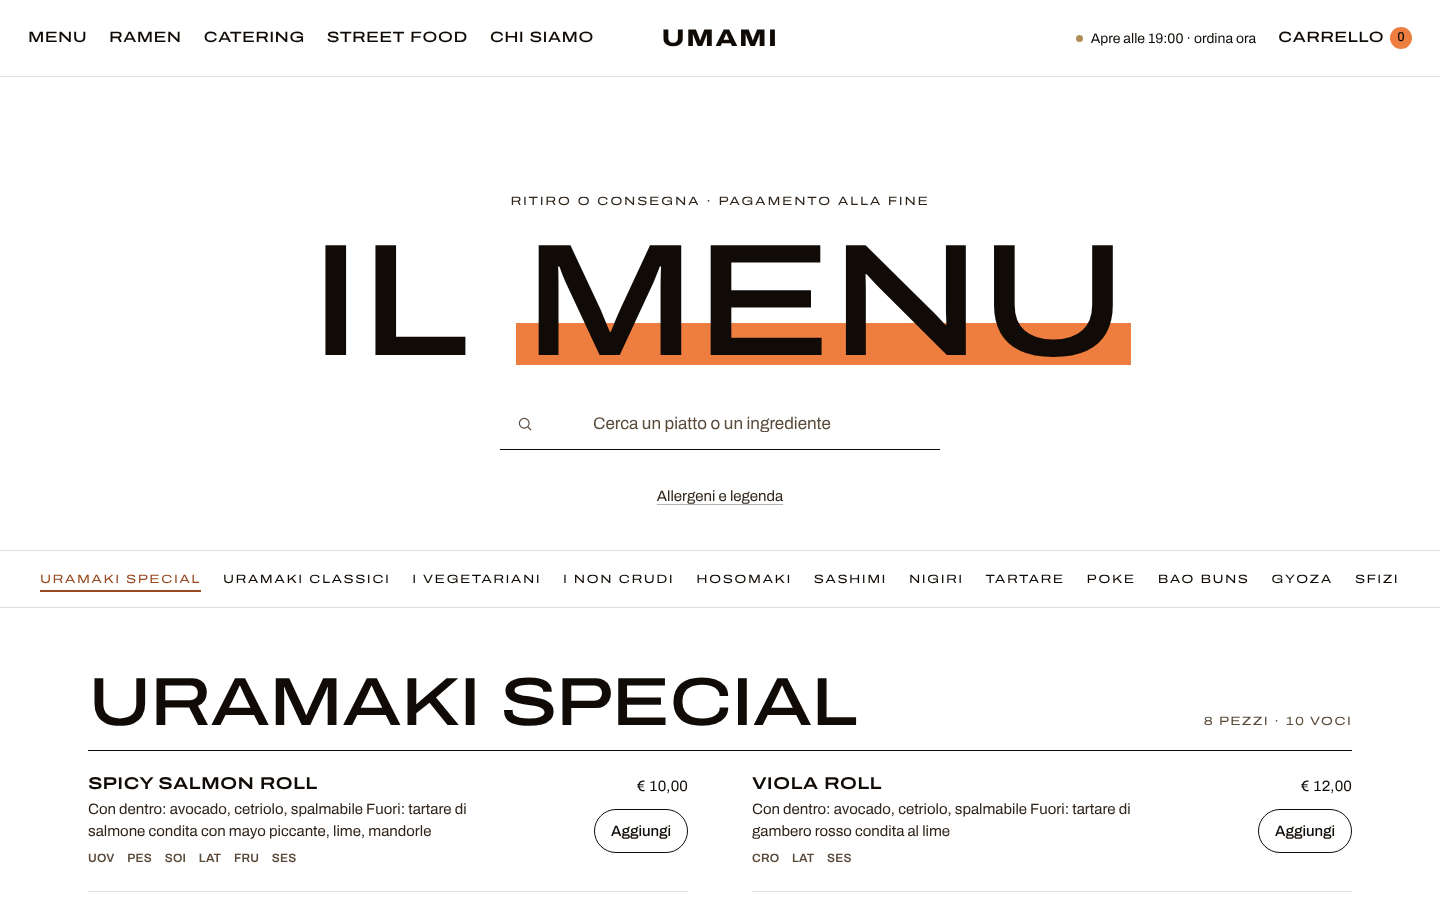
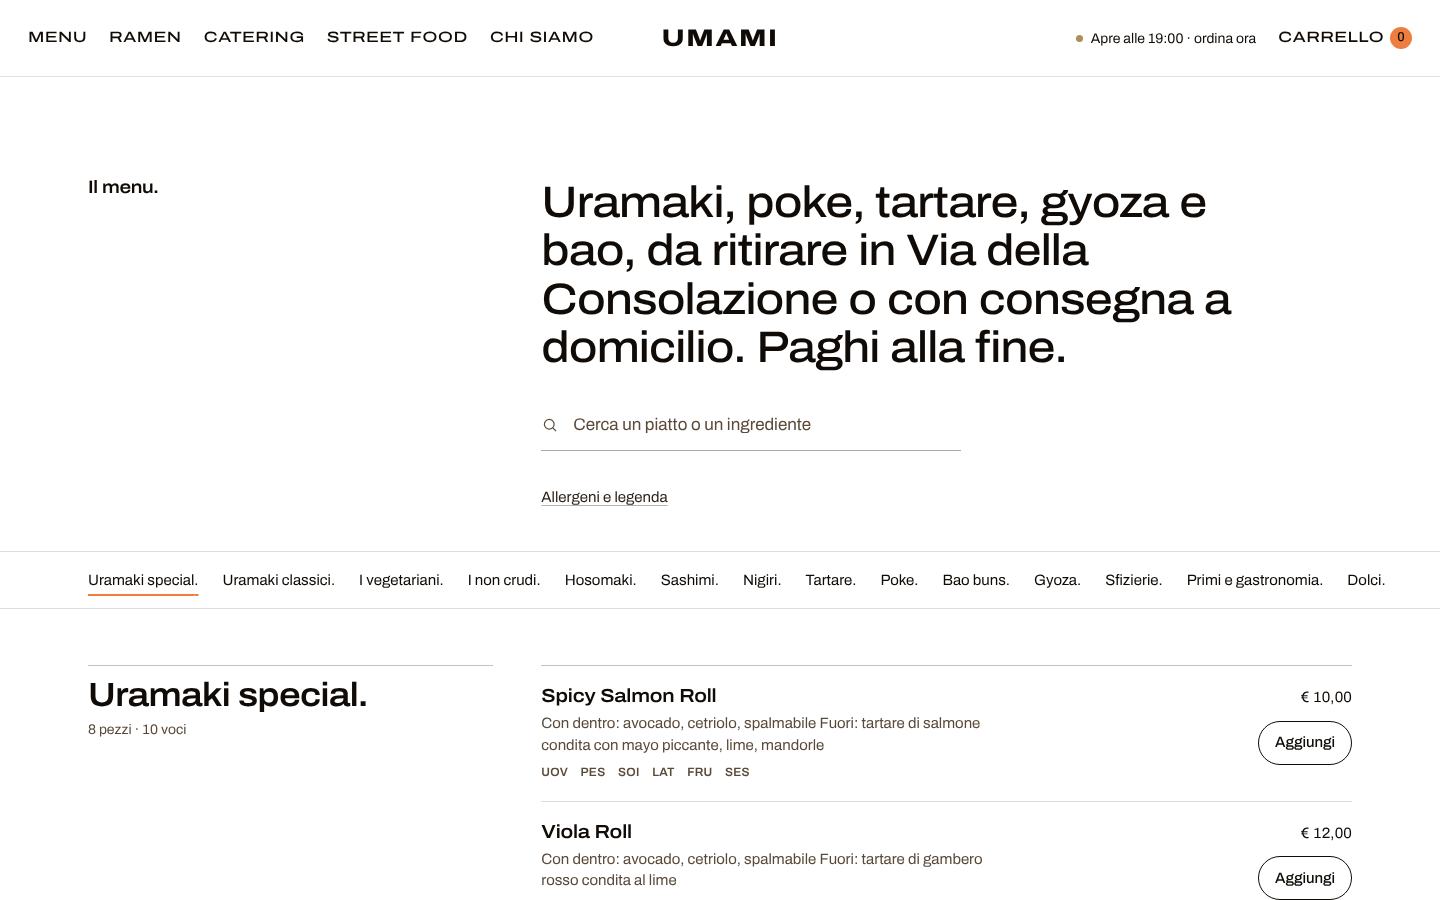
Menu e Cassa nello stile della Home v2 (Watchhouse)
Titoli col punto in minuscolo normale, etichetta a sinistra e contenuto a
destra, categorie col nome fisso mentre i piatti scorrono, righe sottili,
arancione solo per azioni e stati. Corretto lo scorrimento della barra
categorie su mobile (scroll-padding).

Claude-Session: https://claude.ai/code/session_01LSCnPxq5ZLnrvnRqcxrqF5

diff --git a/assets/css/interne.css b/assets/css/interne.css
@@ -1,0 +1,62 @@
+/* =========================================================================
+   UMAMI — Pagine interne v2 (Menu, Cassa) · stessa logica della Home v2
+   Watchhouse: titoli in minuscolo normale col punto, peso 600, niente maiuscoli
+   giganti; etichetta a sinistra e contenuto a destra; righe sottili;
+   l'arancione solo per azioni e stati (carrello, attivo, scelta).
+   ========================================================================= */
+h1, h2 { text-transform: none; }
+.m-testa h1, .c-testa h1, .m-sezione__testa h2, .c-blocco__testa h2, .u-riepilogo h2, .u-cassetto__testa h2 {
+  font-family: var(--font-display); font-stretch: 112%; font-weight: 600; letter-spacing: -0.02em; line-height: 1.05; text-transform: none; }
+
+/* ---------- MENU: testa a due colonne (etichetta / frase + ricerca) ---------- */
+.m-testa { display: grid; grid-template-columns: minmax(0, 1fr) minmax(0, 2fr); gap: 24px 48px; justify-items: stretch; text-align: left; padding-block: clamp(48px, 7vw, 104px) 32px; }
+@media (max-width: 760px) { .m-testa { grid-template-columns: 1fr; } }
+.m-testa h1.m-testa__etichetta { font-size: 1.125rem; }
+.m-testa__riga { display: grid; gap: 28px; align-items: start; justify-items: start; }
+.m-testa__frase { font-family: var(--font-display); font-stretch: 112%; font-weight: 500; font-size: clamp(1.6rem, 1rem + 2vw, 2.75rem); line-height: 1.1; letter-spacing: -0.02em; max-width: 26ch; }
+.m-cerca { width: min(100%, 420px); }
+.m-cerca .u-input { text-align: left; padding-left: 32px; border-bottom: 1px solid rgba(16,11,6,.35); }
+.m-cerca svg { left: 0; }
+.m-legenda { grid-column: 2; text-align: left; }
+@media (max-width: 760px) { .m-legenda { grid-column: 1; } }
+.m-legenda ul { margin-inline: 0; }
+
+/* Categorie: testo normale col punto, attiva sottolineata in arancione */
+.m-categorie .u-categorie__lista { justify-content: flex-start; gap: 4px 24px; }
+.m-categorie a.u-tag { font-family: var(--font-sans); font-stretch: 100%; text-transform: none; letter-spacing: 0; font-size: .9375rem; }
+.m-categorie a.u-tag::after { content: "."; }
+.m-categorie a.u-tag[aria-current="true"] { color: var(--c-inchiostro); text-decoration-color: var(--c-corallo); text-decoration-thickness: 2px; }
+
+/* Sezioni: etichetta fissa a sinistra, piatti a destra */
+.m-sezione { display: grid; grid-template-columns: minmax(0, 1fr) minmax(0, 2fr); gap: 0 48px; padding-block: 56px 8px; }
+@media (max-width: 760px) { .m-sezione { grid-template-columns: 1fr; padding-top: 40px; } }
+.m-sezione__testa { position: sticky; top: 140px; align-self: start; display: grid; gap: 6px; padding-top: 12px; border-bottom: 0; border-top: 1px solid rgba(16,11,6,.25); }
+@media (max-width: 760px) { .m-sezione__testa { position: static; } }
+.m-sezione__testa h2 { font-size: clamp(1.5rem, 1.2rem + 1vw, 2.25rem); }
+.m-sezione__testa .t-mono { margin-left: 0; font-family: var(--font-sans); font-stretch: 100%; text-transform: none; letter-spacing: 0; font-size: .875rem; color: var(--text-3); }
+.m-lista { grid-template-columns: 1fr !important; border-top: 1px solid rgba(16,11,6,.25); }
+@media (max-width: 760px) { .m-lista { border-top: 0; } }
+.m-voce { padding-block: 20px; }
+.m-voce__nome { font-family: var(--font-display); font-stretch: 112%; font-weight: 600; text-transform: none; font-size: 1.1875rem; letter-spacing: -0.01em; }
+.m-voce__desc { color: var(--text-3); max-width: 52ch; }
+.m-voce__foto { width: 104px; }
+.m-voce--foto { grid-template-columns: 104px 1fr auto; }
+
+/* ---------- CASSA ---------- */
+.c-testa { padding-block: clamp(40px, 6vw, 88px) 24px; }
+.c-testa h1 { font-size: clamp(2.25rem, 1.4rem + 3vw, 4rem); }
+.u-passi li { font-size: .875rem; }
+.u-passi li[aria-current="step"]::before { background: var(--c-corallo); border-color: var(--c-corallo); color: var(--c-inchiostro); }
+.c-blocco__testa { border-bottom: 0; border-top: 1px solid rgba(16,11,6,.25); padding: 12px 0 0; }
+.c-blocco__testa .t-mono { font-family: var(--font-sans); font-stretch: 100%; color: var(--text-3); font-size: .875rem; }
+.c-blocco__testa h2 { font-size: 1.5rem; }
+.u-riepilogo { border: 0; border-top: 1px solid rgba(16,11,6,.25); padding: 12px 0 0; }
+.u-riepilogo h2 { font-size: 1.5rem; }
+.u-riepilogo .u-totale { font-family: var(--font-display); font-stretch: 112%; font-weight: 600; }
+.u-scelta label { border-color: rgba(16,11,6,.25); }
+.u-scelta input:checked + label { border-color: var(--c-inchiostro); box-shadow: inset 0 0 0 1px var(--c-inchiostro); }
+.c-fascia input:checked + label { background: var(--c-corallo); border-color: var(--c-corallo); color: var(--c-inchiostro); }
+.c-fascia label { font-family: var(--font-sans); font-stretch: 100%; }
+.c-pagamento { box-shadow: none; border: 1px solid var(--c-inchiostro); background: transparent; }
+#invia { --btn-bg: var(--c-corallo); --btn-bd: var(--c-corallo); --btn-fg: var(--c-inchiostro); }
+.m-categorie .u-categorie__lista { scroll-padding-inline: var(--gutter); }

diff --git a/prototipo/checkout/index.html b/prototipo/checkout/index.html
@@ -14,6 +14,7 @@
 <link rel="stylesheet" href="../../assets/css/components.css">
 <link rel="stylesheet" href="../../assets/css/pagine.css">
 <link rel="stylesheet" href="../../assets/css/v7.css">
+<link rel="stylesheet" href="../../assets/css/interne.css">
 <style>img.manca { display: none; } .u-barra { display: none; } .u-footer { padding-bottom: var(--s-6); }</style>
 </head>
 <body>
@@ -33,7 +34,7 @@
     <ol class="u-passi" aria-label="Passaggi dell'ordine">
       <li class="is-fatto">Menu</li><li aria-current="step">Ritiro o consegna</li><li>Conferma</li>
     </ol>
-    <h1>Quasi <em>pronto</em></h1>
+    <h1>Quasi pronto.</h1>
   </div>
 
   <div id="vista-vuota" hidden>
@@ -51,7 +52,7 @@
 
       <fieldset class="c-blocco">
         <legend class="sr-only">Come vuoi ricevere l'ordine</legend>
-        <div class="c-blocco__testa" aria-hidden="true"><span class="t-mono">01</span><h2>Come lo ricevi</h2></div>
+        <div class="c-blocco__testa" aria-hidden="true"><span class="t-mono">01</span><h2>Come lo ricevi.</h2></div>
         <div class="u-scelte">
           <div class="u-scelta"><input type="radio" name="servizio" id="s-ritiro" value="ritiro" checked><label for="s-ritiro"><strong>Ritiro</strong><span>Via della Consolazione 55, Leverano</span></label></div>
           <div class="u-scelta"><input type="radio" name="servizio" id="s-consegna" value="consegna"><label for="s-consegna"><strong>Consegna</strong><span>A domicilio · costo in base alla zona</span></label></div>
@@ -67,7 +68,7 @@
 
       <fieldset class="c-blocco">
         <legend class="sr-only">Orario</legend>
-        <div class="c-blocco__testa" aria-hidden="true"><span class="t-mono">02</span><h2>Per che ora</h2></div>
+        <div class="c-blocco__testa" aria-hidden="true"><span class="t-mono">02</span><h2>Per che ora.</h2></div>
         <p class="c-fasce-giorno" id="fasce-giorno"></p>
         <div class="c-fasce" id="fasce" role="radiogroup" aria-labelledby="fasce-giorno"></div>
         <p class="u-campo__aiuto">Fasce di 15 minuti negli orari di apertura, con 30 minuti di preparazione: valori di esempio, quelli veri vengono dalla configurazione di Food Store.</p>
@@ -75,7 +76,7 @@
 
       <fieldset class="c-blocco">
         <legend class="sr-only">I tuoi dati</legend>
-        <div class="c-blocco__testa" aria-hidden="true"><span class="t-mono">03</span><h2>I tuoi dati</h2></div>
+        <div class="c-blocco__testa" aria-hidden="true"><span class="t-mono">03</span><h2>I tuoi dati.</h2></div>
         <div class="c-due">
           <div class="u-campo" data-campo="nome"><label for="f-nome">Nome</label><input class="u-input" id="f-nome" name="billing_first_name" autocomplete="given-name" aria-describedby="e-nome"><span class="u-campo__errore" id="e-nome">Scrivi il tuo nome.</span></div>
           <div class="u-campo" data-campo="cognome"><label for="f-cognome">Cognome</label><input class="u-input" id="f-cognome" name="billing_last_name" autocomplete="family-name" aria-describedby="e-cognome"><span class="u-campo__errore" id="e-cognome">Scrivi il tuo cognome.</span></div>
@@ -87,7 +88,7 @@
 
       <fieldset class="c-blocco">
         <legend class="sr-only">Pagamento</legend>
-        <div class="c-blocco__testa" aria-hidden="true"><span class="t-mono">04</span><h2>Pagamento</h2></div>
+        <div class="c-blocco__testa" aria-hidden="true"><span class="t-mono">04</span><h2>Pagamento.</h2></div>
         <!-- Woo: unico metodo attivo oggi sul sito = cod (pagamento alla consegna) -->
         <div class="c-pagamento"><strong id="pag-t">Al ritiro</strong><span id="pag-d">Paghi in negozio quando ritiri l'ordine.</span></div>
       </fieldset>
@@ -99,7 +100,7 @@
     </form>
 
     <aside class="u-riepilogo" aria-labelledby="riep-t">
-      <h2 id="riep-t" class="t-l">Il tuo ordine</h2>
+      <h2 id="riep-t" class="t-l">Il tuo ordine.</h2>
       <div class="c-righe" id="righe"></div>
       <dl>
         <dt>Prodotti</dt><dd data-totale>€ 0,00</dd>

diff --git a/prototipo/ordina/index.html b/prototipo/ordina/index.html
@@ -14,6 +14,7 @@
 <link rel="stylesheet" href="../../assets/css/components.css">
 <link rel="stylesheet" href="../../assets/css/pagine.css">
 <link rel="stylesheet" href="../../assets/css/v7.css">
+<link rel="stylesheet" href="../../assets/css/interne.css">
 <style>img.manca { display: none; }</style>
 </head>
 <body>
@@ -51,9 +52,9 @@
 
 <main id="contenuto">
   <div class="contenitore m-testa">
-    <p class="eyebrow">Ritiro o consegna · pagamento alla fine</p>
+    <h1 class="m-testa__etichetta">Il menu.</h1>
     <div class="m-testa__riga">
-      <h1>Il <em>menu</em></h1>
+      <p class="m-testa__frase">Uramaki, poke, tartare, gyoza e bao, da ritirare in Via della Consolazione o con consegna a domicilio. Paghi alla fine.</p>
       <div class="m-cerca" role="search" data-solo-js>
         <label class="sr-only" for="cerca">Cerca nel menu</label>
         <svg viewBox="0 0 24 24" fill="none" stroke="currentColor" stroke-width="1.6" aria-hidden="true"><circle cx="11" cy="11" r="6.5"/><path d="M20 20l-4.2-4.2"/></svg>
@@ -120,7 +121,7 @@
   }
   document.getElementById("menu").innerHTML = U.CATALOGO.map(function (c) {
     return '<section class="m-sezione" id="' + c.id + '" aria-labelledby="t-' + c.id + '">' +
-      '<div class="m-sezione__testa"><h2 id="t-' + c.id + '">' + c.nome + "</h2>" + '<span class="t-mono">' + (c.nota ? c.nota + " · " : "") + c.prodotti.length + " voci</span></div>" +
+      '<div class="m-sezione__testa"><h2 id="t-' + c.id + '">' + c.nome + ".</h2>" + '<span class="t-mono">' + (c.nota ? c.nota + " · " : "") + c.prodotti.length + " voci</span></div>" +
       '<ul class="m-lista" role="list">' + c.prodotti.map(voce).join("") + "</ul></section>";
   }).join("");
 
@@ -129,7 +130,7 @@
   lista.querySelectorAll("a").forEach(function (a) { link[a.getAttribute("href").slice(1)] = a; });
   function attiva(id) {
     Object.keys(link).forEach(function (k) { if (k === id) link[k].setAttribute("aria-current", "true"); else link[k].removeAttribute("aria-current"); });
-    var a = link[id]; if (a) lista.scrollTo({ left: a.parentNode.offsetLeft - 16, behavior: matchMedia("(prefers-reduced-motion: reduce)").matches ? "auto" : "smooth" });
+    var a = link[id]; if (a) lista.scrollTo({ left: lista.scrollLeft + a.getBoundingClientRect().left - lista.getBoundingClientRect().left - parseFloat(getComputedStyle(lista).paddingLeft), behavior: matchMedia("(prefers-reduced-motion: reduce)").matches ? "auto" : "smooth" });
   }
   /* attiva = ultima sezione il cui inizio ha superato la barra delle categorie */
   var sezioni = [].slice.call(document.querySelectorAll(".m-sezione")), corrente = "", rq = 0;

diff --git a/assets/js/umami.js b/assets/js/umami.js
@@ -99,7 +99,7 @@
       '<div class="u-toast-area" id="toast" role="status" aria-live="polite"></div>' +
       '<div class="u-velo" id="velo" hidden></div>' +
       '<aside class="u-cassetto" id="cassetto" role="dialog" aria-modal="true" aria-labelledby="cassetto-t" hidden>' +
-        '<div class="u-cassetto__testa"><h2 id="cassetto-t">Il tuo <em>ordine</em></h2><button class="u-btn u-btn--secondario u-btn--icona js-chiudi" type="button" aria-label="Chiudi il carrello"><svg class="u-ico" viewBox="0 0 24 24" fill="none" stroke="currentColor" stroke-width="1.6" aria-hidden="true"><path d="M6 6l12 12M18 6L6 18"/></svg></button></div>' +
+        '<div class="u-cassetto__testa"><h2 id="cassetto-t">Il tuo ordine.</h2><button class="u-btn u-btn--secondario u-btn--icona js-chiudi" type="button" aria-label="Chiudi il carrello"><svg class="u-ico" viewBox="0 0 24 24" fill="none" stroke="currentColor" stroke-width="1.6" aria-hidden="true"><path d="M6 6l12 12M18 6L6 18"/></svg></button></div>' +
         '<div class="u-cassetto__corpo" id="cassetto-righe"></div>' +
         '<div class="u-cassetto__piede" id="cassetto-piede"></div>' +
       "</aside>";

diff --git a/assets/css/v7.css b/assets/css/v7.css
@@ -255,3 +255,4 @@ h1 em, h2 em, .t-display em, .t-xxl em, .t-xl em, .m-testa h1 em, .v7-sez-testa 
 /* Passi: numeri neri, filo arancione spesso */
 .h-passi li { border-top: 4px solid var(--c-corallo); }
 .h-passi li::before { color: var(--c-inchiostro); }
+.u-cassetto__testa h2 { font-family: var(--font-display); font-stretch: 112%; font-weight: 600; text-transform: none; letter-spacing: -0.02em; }

diff --git a/docs/fase-3/STUDIO-PREMIATI.md b/docs/fase-3/STUDIO-PREMIATI.md
@@ -20,3 +20,9 @@ Blocca anche i browser automatici (controllo di sicurezza di Vercel): non studia
 - Palcoscenico in 3 capitoli con le nostre foto e velatura di luce arancio (al posto delle fasce colorate).
 - Sotto, la parte per ordinare in stile Watchhouse: due pannelli (Ordina il menu. / Catering.), enunciato, piatti firmati, tessere (Ramen, Chef a domicilio, Street food), dove e quando.
 - Tolte le parti inventate: i 3 passi, la fascia arancione piena, la fascia servizi.
+
+## Menu e Cassa (v2)
+Stessa logica di Watchhouse applicata alle pagine interne (`assets/css/interne.css`):
+- titoli in minuscolo normale col punto, peso 600, niente maiuscoli giganti;
+- Menu: etichetta "Il menu." a sinistra e frase grande a destra; categorie col punto; ogni categoria con il nome fisso a sinistra mentre i piatti scorrono a destra;
+- Cassa: blocchi con riga sottile sopra e titolo col punto, riepilogo senza riquadro, fascia oraria scelta e pulsante di conferma in arancione con testo nero.
